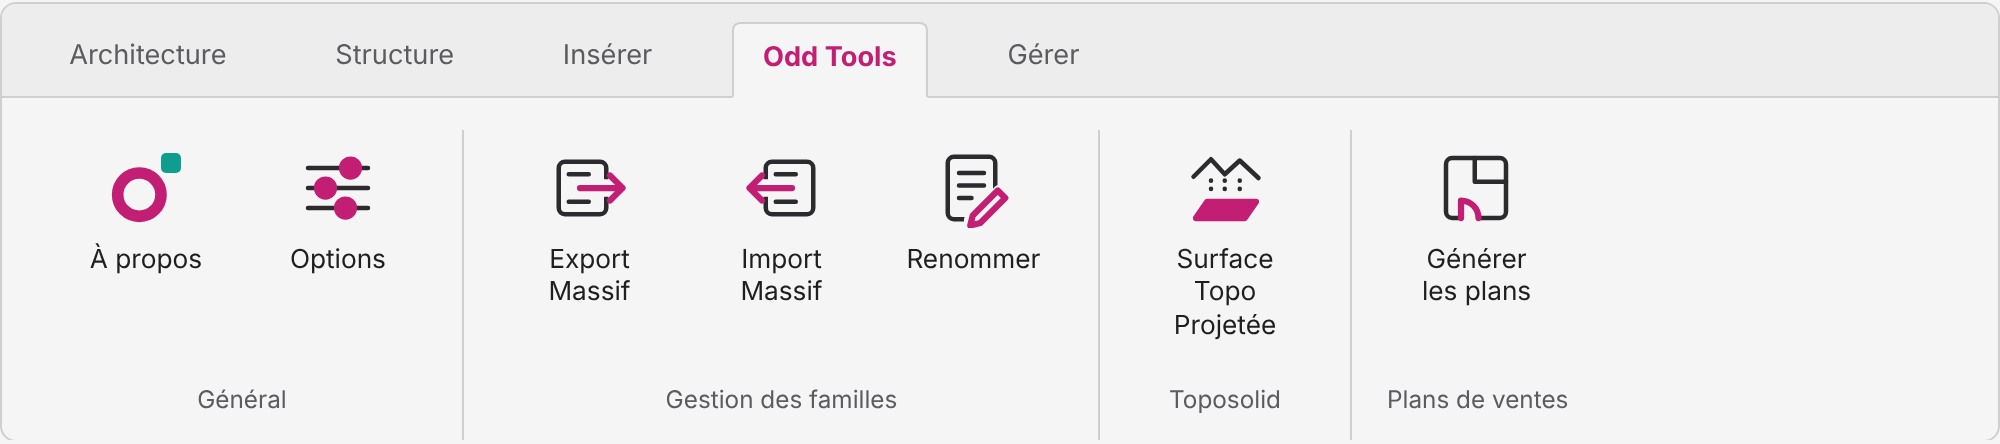
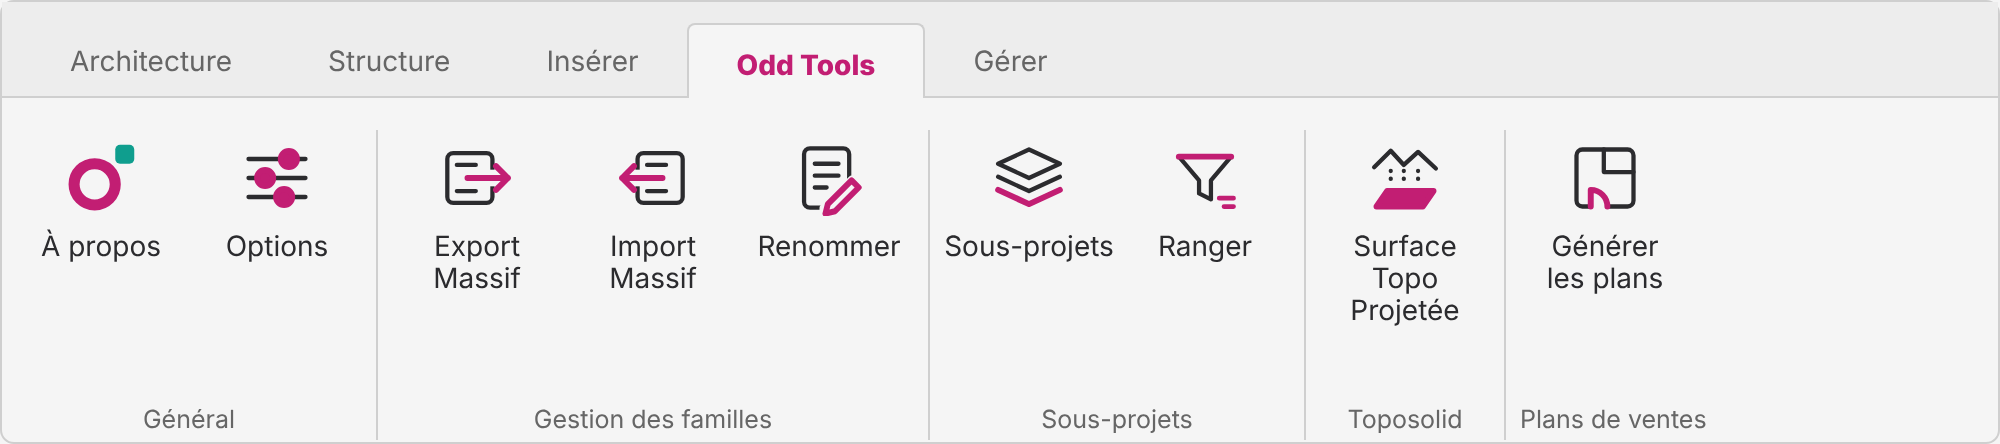
Site et doc : panneau Sous-projets, ruban à jour, version 0.20 Beta

diff --git a/index.html b/index.html
@@ -4,7 +4,7 @@
 <meta charset="utf-8">
 <meta name="viewport" content="width=device-width, initial-scale=1">
 <title>Odd Tools, des outils pour Revit</title>
-<meta name="description" content="Odd Tools ajoute un onglet à Revit : plans de ventes, gestion massive des familles et calcul de surfaces projetées.">
+<meta name="description" content="Odd Tools ajoute un onglet à Revit : plans de ventes, gestion massive des familles, rangement des éléments dans les sous-projets et calcul de surfaces projetées.">
 <link rel="icon" href="assets/favicon.svg" type="image/svg+xml">
 <link rel="stylesheet" href="style.css">
 <script>try{var t=localStorage.getItem("oddtools-theme");if(t==="light"||t==="dark")document.documentElement.dataset.theme=t}catch(e){}</script>
@@ -24,7 +24,7 @@
   <main>
   <div class="hero">
     <h1>Des outils Revit simples, rapides et sur mesure.</h1>
-    <p class="lead">Odd Tools ajoute un onglet à Revit pour les tâches répétitives des projets BIM : plans de ventes, familles en masse, surfaces de terrain.</p>
+    <p class="lead">Odd Tools ajoute un onglet à Revit pour les tâches répétitives des projets BIM : plans de ventes, familles en masse, sous-projets, surfaces de terrain.</p>
     <div class="cta">
       <a class="btn primary" href="#outils">Voir les outils</a>
       <a class="btn line" href="#installation">Installation</a>
@@ -36,6 +36,7 @@
         <div class="bar">
           <div class="group"><div class="keys"><a class="key" href="#general"><img class="l" src="assets/icons/light/about.svg" alt="" width="64" height="64"><img class="d" src="assets/icons/dark/about.svg" alt="" width="64" height="64"><span>À propos<br>&nbsp;</span></a><a class="key" href="#general"><img class="l" src="assets/icons/light/options.svg" alt="" width="64" height="64"><img class="d" src="assets/icons/dark/options.svg" alt="" width="64" height="64"><span>Options<br>&nbsp;</span></a></div><div class="gname">Général</div></div>
           <div class="group"><div class="keys"><a class="key" href="#familles"><img class="l" src="assets/icons/light/export.svg" alt="" width="64" height="64"><img class="d" src="assets/icons/dark/export.svg" alt="" width="64" height="64"><span>Export<br>Massif</span></a><a class="key" href="#familles"><img class="l" src="assets/icons/light/import.svg" alt="" width="64" height="64"><img class="d" src="assets/icons/dark/import.svg" alt="" width="64" height="64"><span>Import<br>Massif</span></a><a class="key" href="#familles"><img class="l" src="assets/icons/light/rename.svg" alt="" width="64" height="64"><img class="d" src="assets/icons/dark/rename.svg" alt="" width="64" height="64"><span>Renommer<br>&nbsp;</span></a></div><div class="gname">Gestion des familles</div></div>
+          <div class="group"><div class="keys"><a class="key" href="#sous-projets"><img class="l" src="assets/icons/light/worksets.svg" alt="" width="64" height="64"><img class="d" src="assets/icons/dark/worksets.svg" alt="" width="64" height="64"><span>Sous-projets<br>&nbsp;</span></a><a class="key" href="#sous-projets"><img class="l" src="assets/icons/light/rules.svg" alt="" width="64" height="64"><img class="d" src="assets/icons/dark/rules.svg" alt="" width="64" height="64"><span>Ranger<br>&nbsp;</span></a></div><div class="gname">Sous-projets</div></div>
           <div class="group"><div class="keys"><a class="key" href="#topo"><img class="l" src="assets/icons/light/projectedarea.svg" alt="" width="64" height="64"><img class="d" src="assets/icons/dark/projectedarea.svg" alt="" width="64" height="64"><span>Surface Topo<br>Projetée</span></a></div><div class="gname">Toposolid</div></div>
           <div class="group"><div class="keys"><a class="key" href="#plans"><img class="l" src="assets/icons/light/plans.svg" alt="" width="64" height="64"><img class="d" src="assets/icons/dark/plans.svg" alt="" width="64" height="64"><span>Générer<br>les plans</span></a></div><div class="gname">Plans de ventes</div></div>
         </div>

diff --git a/README.md b/README.md
@@ -16,16 +16,17 @@
   </picture>
 </p>
 
-Odd Tools ajoute un onglet à Revit (2021 à 2027) pour les tâches répétitives des projets BIM. Plans de ventes et Topographie : à partir de Revit 2025.
+Odd Tools ajoute un onglet à Revit (2021 à 2027) pour les tâches répétitives des projets BIM. Plans de ventes et Topographie : à partir de Revit 2025 ; Gestion des familles et Sous-projets : dès Revit 2021.
 
 | Outil | Ce qu'il fait |
 |---|---|
 | **Plans de ventes** | Crée, pour chaque logement, une vue de plan orientée selon la porte d'entrée, une nomenclature et une feuille. |
 | **Gestion des familles** | Export et import massifs de familles, avec gestion des doublons, et renommage en lot des familles et de leurs types. |
+| **Sous-projets** | Gère les sous-projets (worksets), active le travail collaboratif, et range automatiquement les éléments grâce à des règles ordonnées, avec aperçu avant d'appliquer. |
 | **Surface Topo Projetée** | Calcule la surface projetée au sol des Toposolids et l'écrit dans un paramètre. |
 
 Les fenêtres suivent le thème de Revit, ou un thème clair ou sombre au choix, et existent en français et en anglais.
 
-**Version 0.14 Beta.** Les installateurs ne sont pas encore publics.
+**Version 0.20 Beta.** Les installateurs ne sont pas encore publics.
 
 Contact : [odd.tools.dev@gmail.com](mailto:odd.tools.dev@gmail.com)
